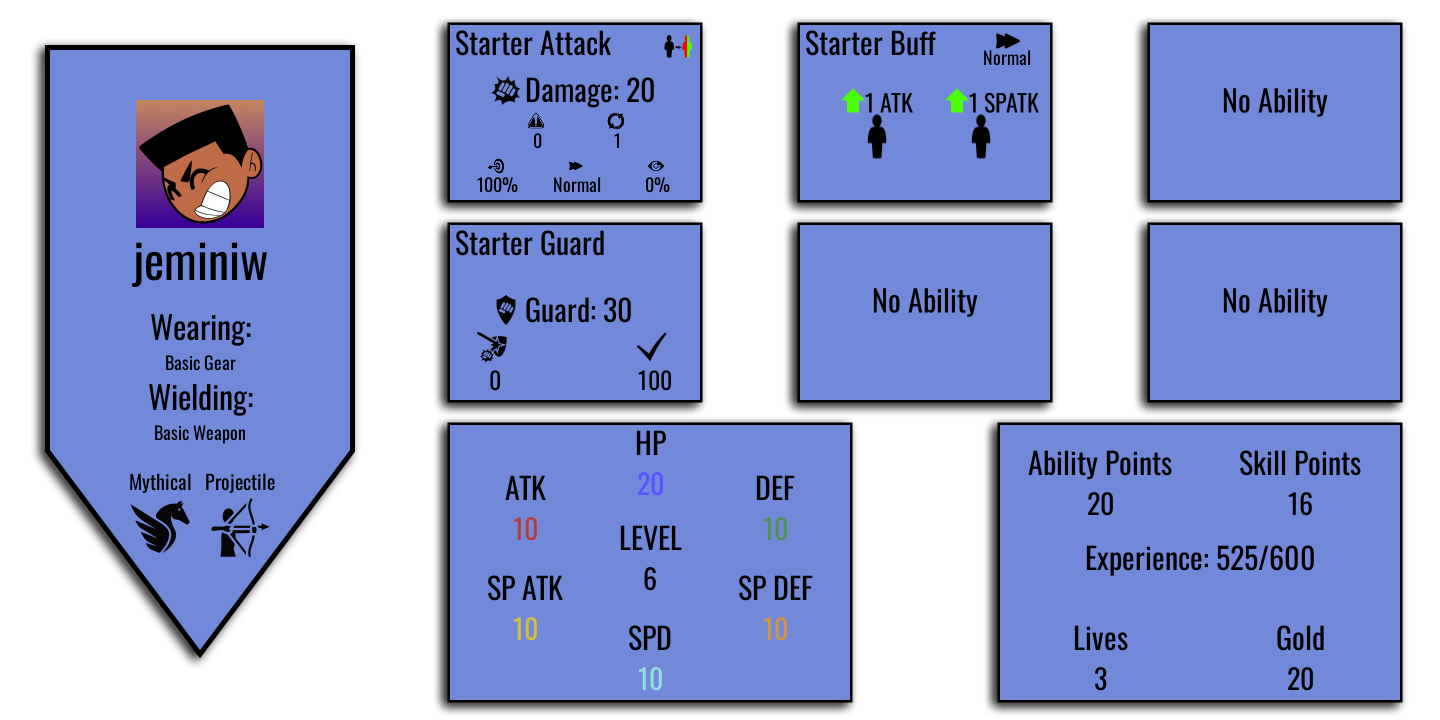
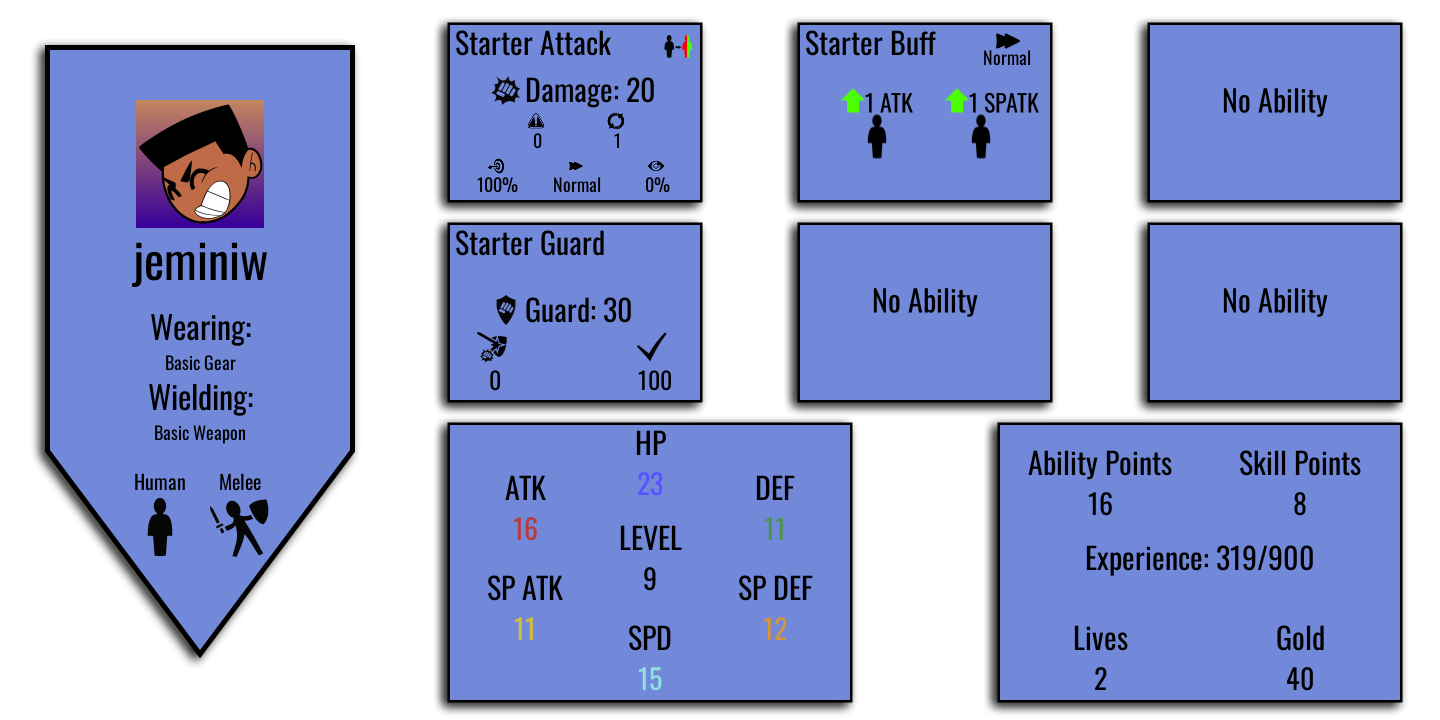
Profile popup button on level up

diff --git a/components/profilePopUp.js b/components/profilePopUp.js
@@ -1,0 +1,81 @@
+const { SlashCommandBuilder} = require('@discordjs/builders');
+const { User, MessageActionRow, MessageButton } = require('discord.js');
+const { drawCard } = require('../profileCardCreator')
+const { clone } = require("../tools.js")
+const { getPlayerDBData } = require("../firebaseTools.js")
+
+
+
+
+
+module.exports = {
+        config:{},
+        data:{
+            name:"profilePopUp"
+        },
+        async execute(interaction,componentConfig,callback){
+                interaction.message.delete()
+                let id = componentConfig.args[0]
+                let avatarID = componentConfig.args[1]
+                let pngURL = "https://cdn.discordapp.com/avatars/" + id + "/" + avatarID + ".png"
+                if(avatarID == null){
+                        pngURL = "https://cdn.discordapp.com/embed/avatars/index.png"
+                }
+                getPlayerDBData({id:id},function(playerData){
+                        if(playerData){
+                                drawCard(playerData,pngURL,"stats",function(path){
+                                    const row1 = new MessageActionRow()
+                                    .addComponents(
+                                            new MessageButton()
+                                            .setCustomId('showIconKey_NULL')
+                                            .setLabel('Show Icon Key')
+                                            .setStyle('PRIMARY'),
+            
+                                            new MessageButton()
+                                            .setCustomId('showTermKey_NULL')
+                                            .setLabel('Show Term Key')
+                                            .setStyle('PRIMARY')
+                                    );
+                                    if(playerData.tutorial == 0){
+                                            playerData.tutorial++
+            
+                                            let tutorialText = "```diff\n"
+                                            tutorialText += "The image below is a preview of your character's stats. You can do the /profile command to view this as long as you are not in another session"
+                                            tutorialText += "\n\nTo get more acquainted with this game's combat we recommend you use /town and visit the training hall to learn the basics of combat"
+                                            tutorialText += "```"
+            
+                                            interaction.reply({
+                                                    files: [path],
+                                                    content: tutorialText,
+                                                    components: [row1],
+                                                    embeds: []
+                                            })
+            
+                                            let updates = [
+                                                    {
+                                                            id:playerData.id,
+                                                            path:"tutorial",
+                                                            value:1
+                                                    }
+                                            ]
+            
+                                            callback({
+                                                    updatePlayer:updates,
+                                            })               
+                                    } else {
+                                            interaction.reply({
+                                                    files: [path],
+                                                    content: " ",
+                                                    components: [row1],
+                                                    embeds: []
+                                            })
+                                            callback({})
+                                    }
+
+                                })  
+                        } else {
+                                interaction.reply({ content: "This user does not have an account", ephemeral: true });   
+                        }
+                })
+        }
+};

diff --git a/index.js b/index.js
@@ -465,12 +465,18 @@ function playerPresenceCheck(message,user,town,intervalMsg,callback){
                             embed.setColor("#7289da")
                             embed.addField("Level Up!",text)
                             
+                            console.log(message)
                             let removeRow = new MessageActionRow()
                             .addComponents(
                                 new MessageButton()
                                 .setCustomId('deleteMessage')
                                 .setLabel("Dismiss")
                                 .setStyle('DANGER'))
+                            .addComponents(
+                                new MessageButton()
+                                .setCustomId('profilePopUp_NULL_' + player.id + '|' + message.author.avatar)
+                                .setLabel("View Stats")
+                                .setStyle('PRIMARY'))
                             client.channels.fetch(message.channelId).then(channel=>{
                                 channel.send({
                                     embeds:[embed],
@@ -863,7 +869,6 @@ setInterval(() => {
         })
     })  
 }, 300000);
-//}, 30000);
 
 process.on('unhandledRejection', error => {
 	console.error('Unhandled promise rejection:', error);

diff --git a/components/help.js b/components/help.js
@@ -7,7 +7,6 @@ module.exports = {
     },
     execute(interaction,componentConfig,callback){
         const embed = new MessageEmbed()
-        console.log(componentConfig.args[0])
         embed.addField(
             "Info - " + helpMessages[componentConfig.args[0]].title,
             "```" + helpMessages[componentConfig.args[0]].info + "```"
